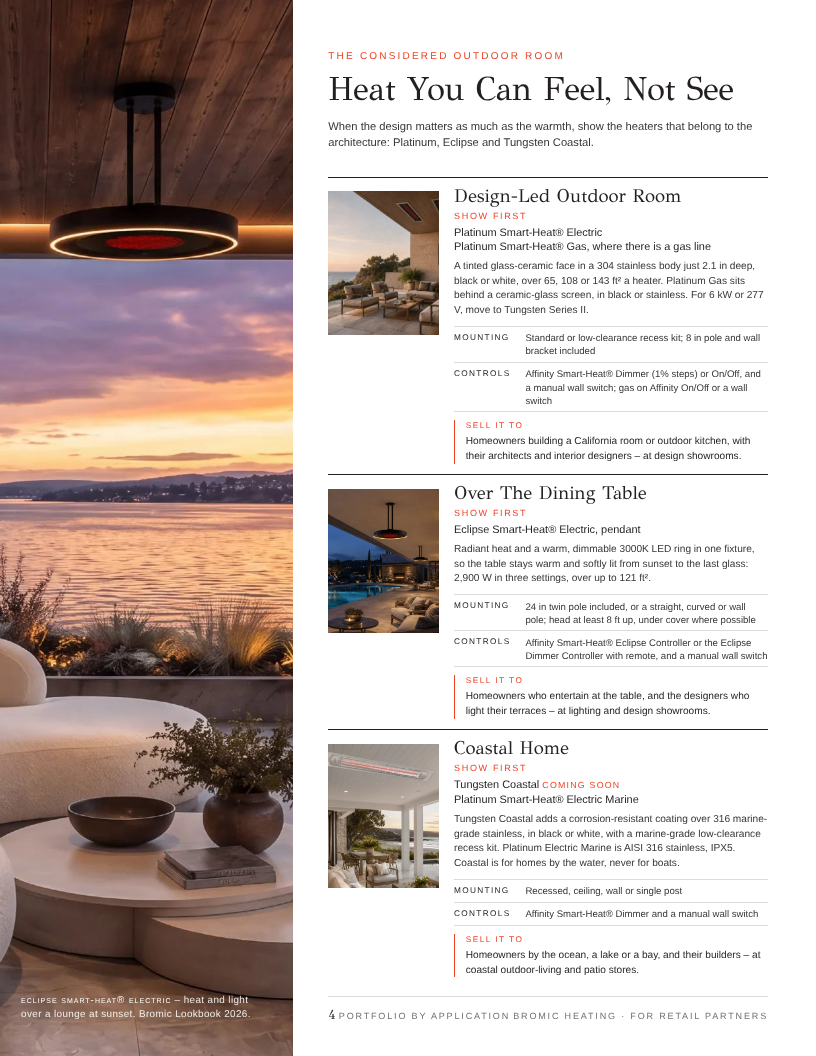
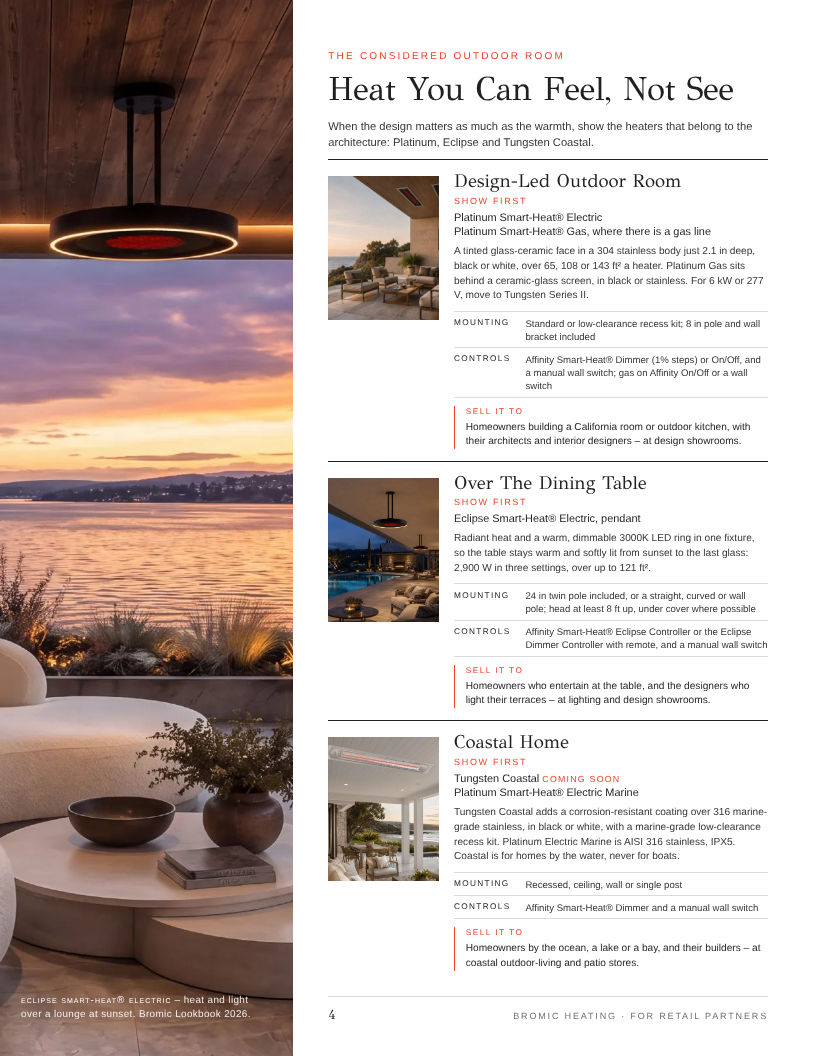
Retail: take-home flyer, Letter and half-letter, with tested QR codes

Changed region(s): [[0.3983, 0.1562, 0.9498, 0.9375]]

diff --git a/reports/retail/portfolio-applications/build.js b/reports/retail/portfolio-applications/build.js
@@ -156,8 +156,8 @@ p { font-size: 9.2pt; line-height: 1.58; color: #3a3637; hyphens: manual; }
 .p4 .side .label { display: block; margin-bottom: 9pt; }
 .p4 h2 { font-size: 25pt; white-space: nowrap; line-height: 0.98; letter-spacing: -0.008em; margin-bottom: 9pt; }
 .p4 .side > p { font-size: 8.4pt; line-height: 1.5; }
-.p4 .stack { position: absolute; top: 1.84in; left: 3.42in; right: var(--m); }
-.p4 .sp { display: grid; grid-template-columns: 1.15in 1fr; gap: 0.16in; padding: 6pt 0 6pt; border-top: 0.5pt solid var(--ink); }
+.p4 .stack { position: absolute; top: 1.66in; left: 3.42in; right: var(--m); }
+.p4 .sp { display: grid; grid-template-columns: 1.15in 1fr; gap: 0.16in; padding: 8pt 0 7pt; border-top: 0.5pt solid var(--ink); }
 .p4 .sp + .sp { margin-top: 2pt; }
 .p4 .sp .thumb { height: 1.5in; margin-top: 4pt; }
 .p4 .sp .no { display: none; }
@@ -166,6 +166,7 @@ p { font-size: 9.2pt; line-height: 1.58; color: #3a3637; hyphens: manual; }
 .p4 .sp dl div { grid-template-columns: 0.66in 1fr; padding: 3.4pt 0; }
 .p4 .sp .sell { margin-top: 6pt; }
 .p4 .folio { left: 3.42in; }
+.p4 .folio span:nth-child(2) { display: none; }
 
 /* ---------- 6 how to choose ---------- */
 .p6 .hero { top: 0; right: 0; width: 3.35in; height: 4.45in; }

diff --git a/reports/retail/portfolio-applications/index.html b/reports/retail/portfolio-applications/index.html
@@ -113,8 +113,8 @@ p { font-size: 9.2pt; line-height: 1.58; color: #3a3637; hyphens: manual; }
 .p4 .side .label { display: block; margin-bottom: 9pt; }
 .p4 h2 { font-size: 25pt; white-space: nowrap; line-height: 0.98; letter-spacing: -0.008em; margin-bottom: 9pt; }
 .p4 .side > p { font-size: 8.4pt; line-height: 1.5; }
-.p4 .stack { position: absolute; top: 1.84in; left: 3.42in; right: var(--m); }
-.p4 .sp { display: grid; grid-template-columns: 1.15in 1fr; gap: 0.16in; padding: 6pt 0 6pt; border-top: 0.5pt solid var(--ink); }
+.p4 .stack { position: absolute; top: 1.66in; left: 3.42in; right: var(--m); }
+.p4 .sp { display: grid; grid-template-columns: 1.15in 1fr; gap: 0.16in; padding: 8pt 0 7pt; border-top: 0.5pt solid var(--ink); }
 .p4 .sp + .sp { margin-top: 2pt; }
 .p4 .sp .thumb { height: 1.5in; margin-top: 4pt; }
 .p4 .sp .no { display: none; }
@@ -123,6 +123,7 @@ p { font-size: 9.2pt; line-height: 1.58; color: #3a3637; hyphens: manual; }
 .p4 .sp dl div { grid-template-columns: 0.66in 1fr; padding: 3.4pt 0; }
 .p4 .sp .sell { margin-top: 6pt; }
 .p4 .folio { left: 3.42in; }
+.p4 .folio span:nth-child(2) { display: none; }
 
 /* ---------- 6 how to choose ---------- */
 .p6 .hero { top: 0; right: 0; width: 3.35in; height: 4.45in; }
